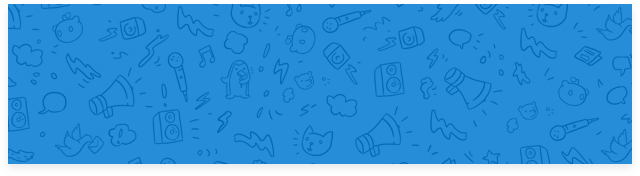
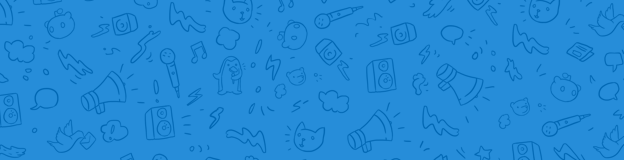
all communities on homepage styled

diff --git a/react-app/src/components/Posts/AllPosts/index.js b/react-app/src/components/Posts/AllPosts/index.js
@@ -72,31 +72,42 @@ const AllPosts = () => {
                     </div>
                     <div className="homepage-community-buttons">
                         <div className="homepage-communities-container">
-                            <img className="some-communities-background" src={viewcommunities} />
+                            <div className="some-communities-background">
+                                <div className="some-communities-text">
+                                    Newest Communities
+                                </div>
+                            </div>
                             <div className='communities-holder'>
                                 {Object.values(communities).reverse().slice(0, 5).map(community => (
                                     <div className="newest-communities">
-                                        <NavLink to={`/communities/${community.id}`} id="newest-communities-link">
-                                            <div className="newest-community-container">
-                                                <img src={`${community.icon_url}`} id='newest-community-icon' onError={iconErrorHandler}/>
-                                                <div>
-                                                    {community.name}
+                                        <div className="communities-bottom-border">
+                                            <NavLink to={`/communities/${community.id}`} id="newest-communities-link">
+                                                <div className="newest-community-container">
+                                                    <div className="newest-community-placeholder">New</div>
+                                                    <span id='community-dot'>•</span>
+                                                    <img src={`${community.icon_url}`} id='newest-community-icon' onError={iconErrorHandler} />
+                                                    <div id='newest-community-names'>
+                                                        {community.name}
+                                                    </div>
                                                 </div>
-                                            </div>
-                                        </NavLink>
+                                            </NavLink>
+                                        </div>
                                     </div>
                                 ))}
                             </div>
                             <div className="all-communities-padding">
-                            <NavLink to={`/communities`} id='all-communities'>
-                                <div id='view-all-communities-button'>
-                                    View All
-                                </div>
-                            </NavLink>
+                                <NavLink to={`/communities`} id='all-communities'>
+                                    <div id='view-all-communities-button'>
+                                        View All
+                                    </div>
+                                </NavLink>
                             </div>
                         </div>
                         {user && (
                             <div className='homepage-create-buttons'>
+                                <div className="create-community-banner"></div>
+                                <div></div>
+                                <div className="create-community-text">Your personal Sawdat frontpage. Come here to check in with your favorite communities.</div>
                                 <NavLink to={`/communities/create`} id='create-community'>
                                     <div id='create-community-button'>
                                         Create Community

diff --git a/react-app/src/components/Posts/AllPosts/AllPosts.css b/react-app/src/components/Posts/AllPosts/AllPosts.css
@@ -139,20 +139,34 @@
 .homepage-communities-container {
     display: flex;
     flex-direction: column;
-    justify-content: center;
-    align-items: center;
+    /* justify-content: center;
+    align-items: center; */
     width: 310px;
-    border: 1px rgb(204, 204, 204) solid;
+    /* border: 1px rgb(204, 204, 204) solid; */
     border-radius: 4px;
     background-color: white;
 }
 
 .some-communities-background {
-    border-top-left-radius: 5px;
-    border-top-right-radius: 5px;
+    display: flex;
+    align-items: flex-end;
+    border-top-left-radius: 4px;
+    border-top-right-radius: 4px;
+    width: 310px;
     height: 80px;
-    width: 312px;
-    margin: 0px
+    background-size: cover;
+    background-image: url("../../../assets/viewcommunities.png");
+}
+
+.some-communities-text {
+    display: flex;
+    color: white;
+    font-size: 16px;
+    font-weight: 500;
+    height: 20px;
+    margin-left: 20px;
+    margin-bottom: 5px;
+    font-family: "IBM Plex Sans";
 }
 
 .communities-holder {
@@ -168,6 +182,10 @@
     border-bottom: 1px solid #EDEFF1;
 }
 
+.communities-bottom-border {
+    width: 310px;
+}
+
 #newest-communities-link {
     text-decoration: none;
     font-size: 14px;
@@ -180,11 +198,29 @@
     align-items: center;
 }
 
+.newest-community-placeholder {
+    margin-left: 20px;
+    margin-right: 5px;
+    font-size: 14px;
+    color: #1a1a1b;
+    font-weight: 550;
+}
+
+#community-dot {
+    margin-right: 5px;
+}
+
 #newest-community-icon {
     height: 32px;
     width: 32px;
     border-radius: 50%;
     padding-right: 8px;
+}
+
+#newest-community-name {
+    font-size: 14px;
+    color: #1a1a1b;
+    font-weight: 500;
 }
 
 .all-communities-padding {
@@ -219,6 +255,23 @@
     border: 1px rgb(204, 204, 204) solid;
     border-radius: 4px;
     background-color: white;
+    margin-top: 16px;
+}
+
+.create-community-banner {
+    border-top-left-radius: 4px;
+    border-top-right-radius: 4px;
+    height: 34px;
+    width: 310px;
+    margin-top: -2px;
+    background-size: cover;
+    background-image: url("../../../assets/createcommunity.png");
+}
+
+.create-community-text{
+    font-size: 14px;
+    font-weight: 400;
+    word-wrap: break-word;
 }
 
 #create-community {
@@ -233,6 +286,7 @@
     align-items: center;
     border-radius: 50px;
     background-color: white;
+    margin-top: 12px;
 }
 
 #create-community-button {

diff --git a/react-app/public/index.html b/react-app/public/index.html
@@ -5,8 +5,11 @@
   <meta charset="utf-8" />
   <link rel="preconnect" href="https://fonts.googleapis.com">
   <link rel="preconnect" href="https://fonts.gstatic.com" crossorigin>
-  <link href="https://fonts.googleapis.com/css2?family=Noto+Sans:wght@100;200;300;400;500;600;700;800;900
-  &display=swap" rel="stylesheet">
+  <link href="https://fonts.googleapis.com/css2?family=Noto+Sans:wght@100;200;300;400;500;600;700;800;900&display=swap"
+    rel="stylesheet">
+  <link
+    href="https://fonts.googleapis.com/css2?family=IBM+Plex+Sans:ital,wght@0,100;0,200;0,300;0,400;0,500;0,600;0,700;1,100;1,200;1,300;1,400;1,500;1,600;1,700&display=swap"
+    rel="stylesheet">
   <title>Sawdat - Have you seen it?</title>
 </head>
 
